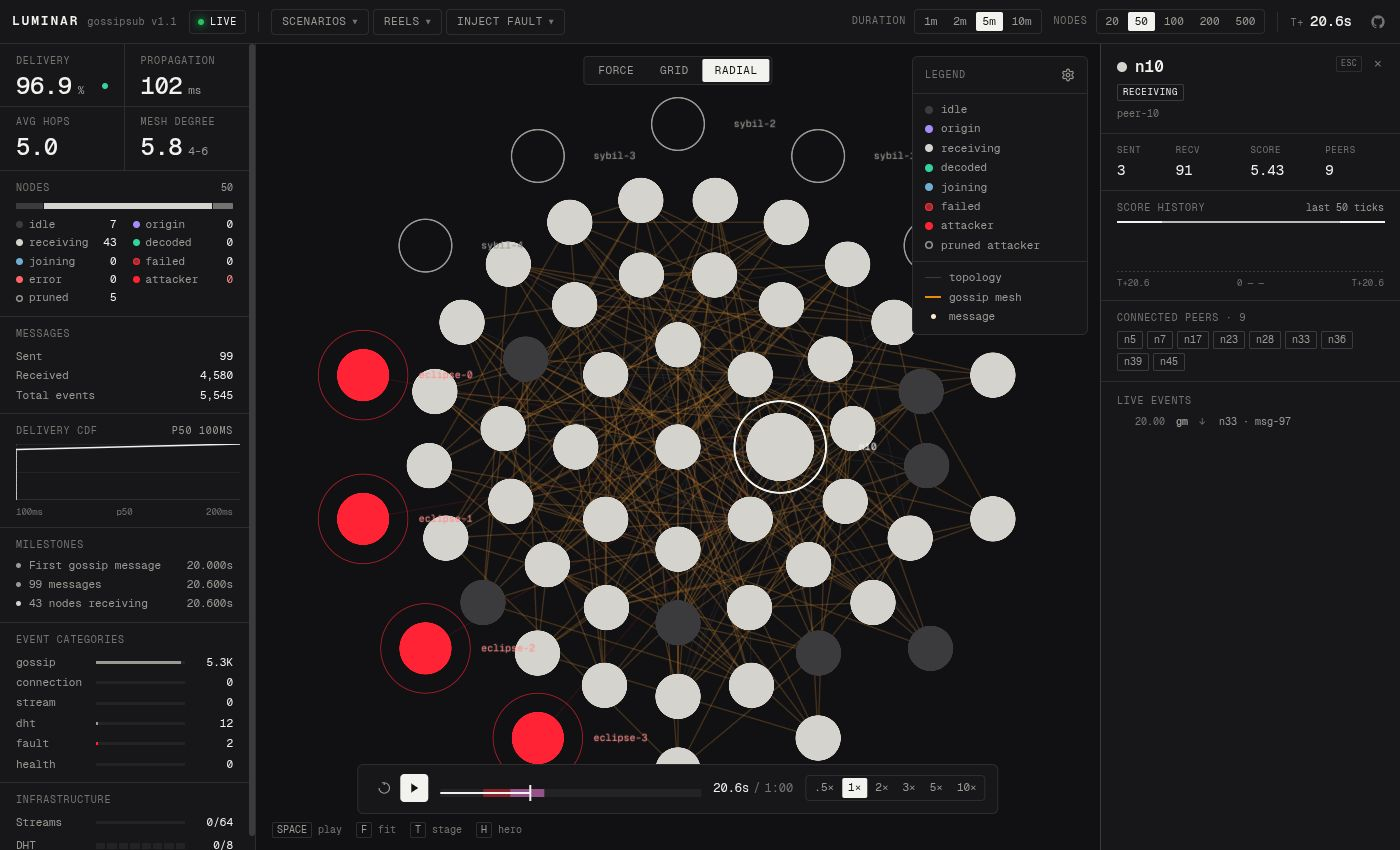
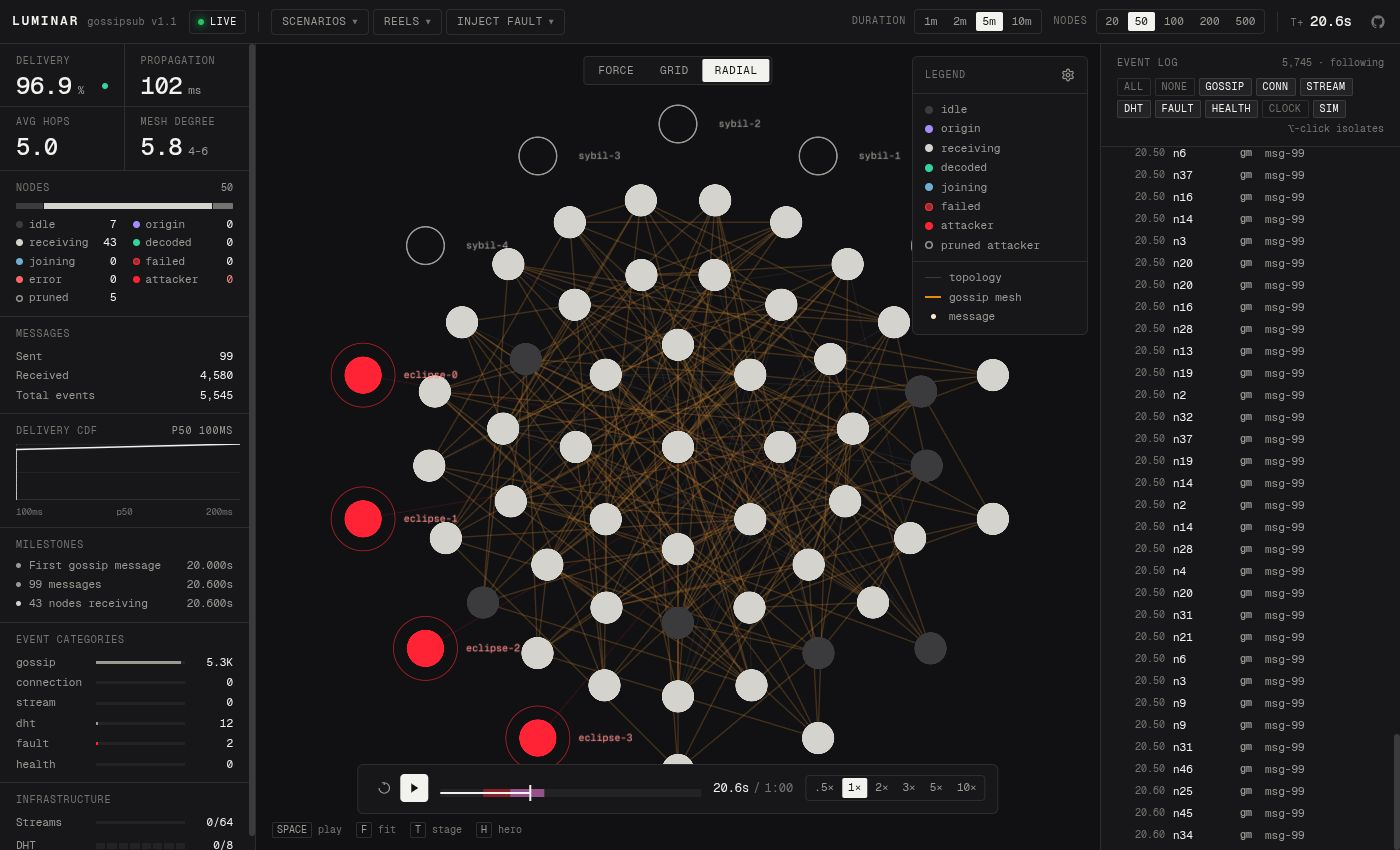
fix(frontend): smaller nodes in grid and radial layouts

diff --git a/frontend/src/map/renderer.ts b/frontend/src/map/renderer.ts
@@ -131,7 +131,7 @@ export function renderLayers() {
 
   // Node radius scales with count; smaller in grid/radial for cleaner look
   const baseRadius = Math.max(3, Math.min(8, 200 / Math.sqrt(n))) * store.scale.node
-  const nodeRadius = store.layoutMode === 'force' ? baseRadius : baseRadius * 0.7
+  const nodeRadius = store.layoutMode === 'force' ? baseRadius : baseRadius * 0.5  // grid/radial: ~45% of the slot
   const radiusOf = (d: { state: string; _idx: number }) =>
     nodeRadius * (d._idx === selectedNode ? 1.5 : 1) * (d.state === 'attacker' ? 1.15 : 1)
   const la = store.layoutMode === 'force' ? 1 : 0.4   // grid/radial thin every edge layer
